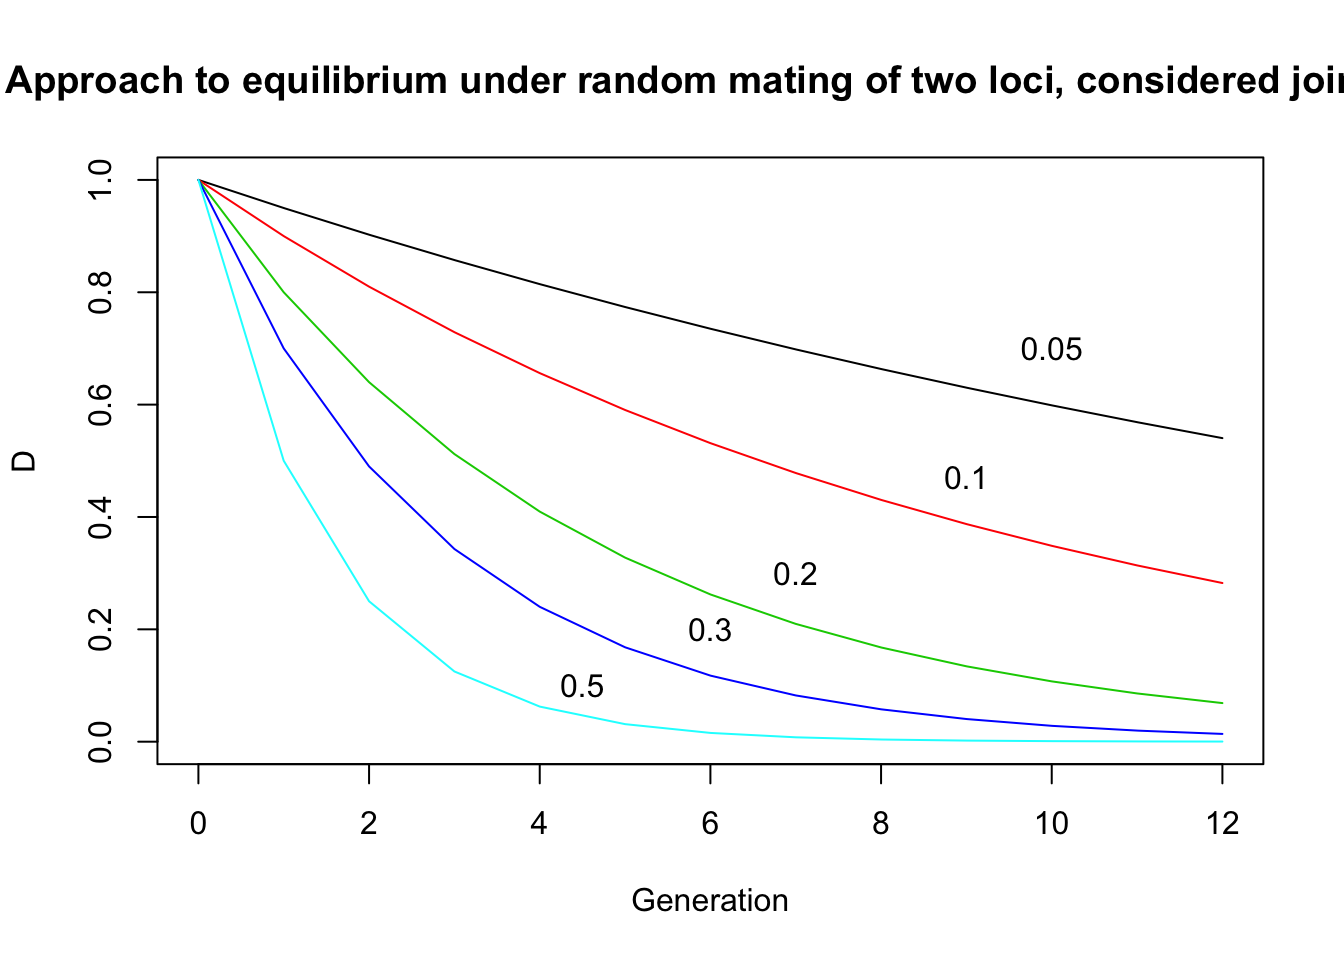
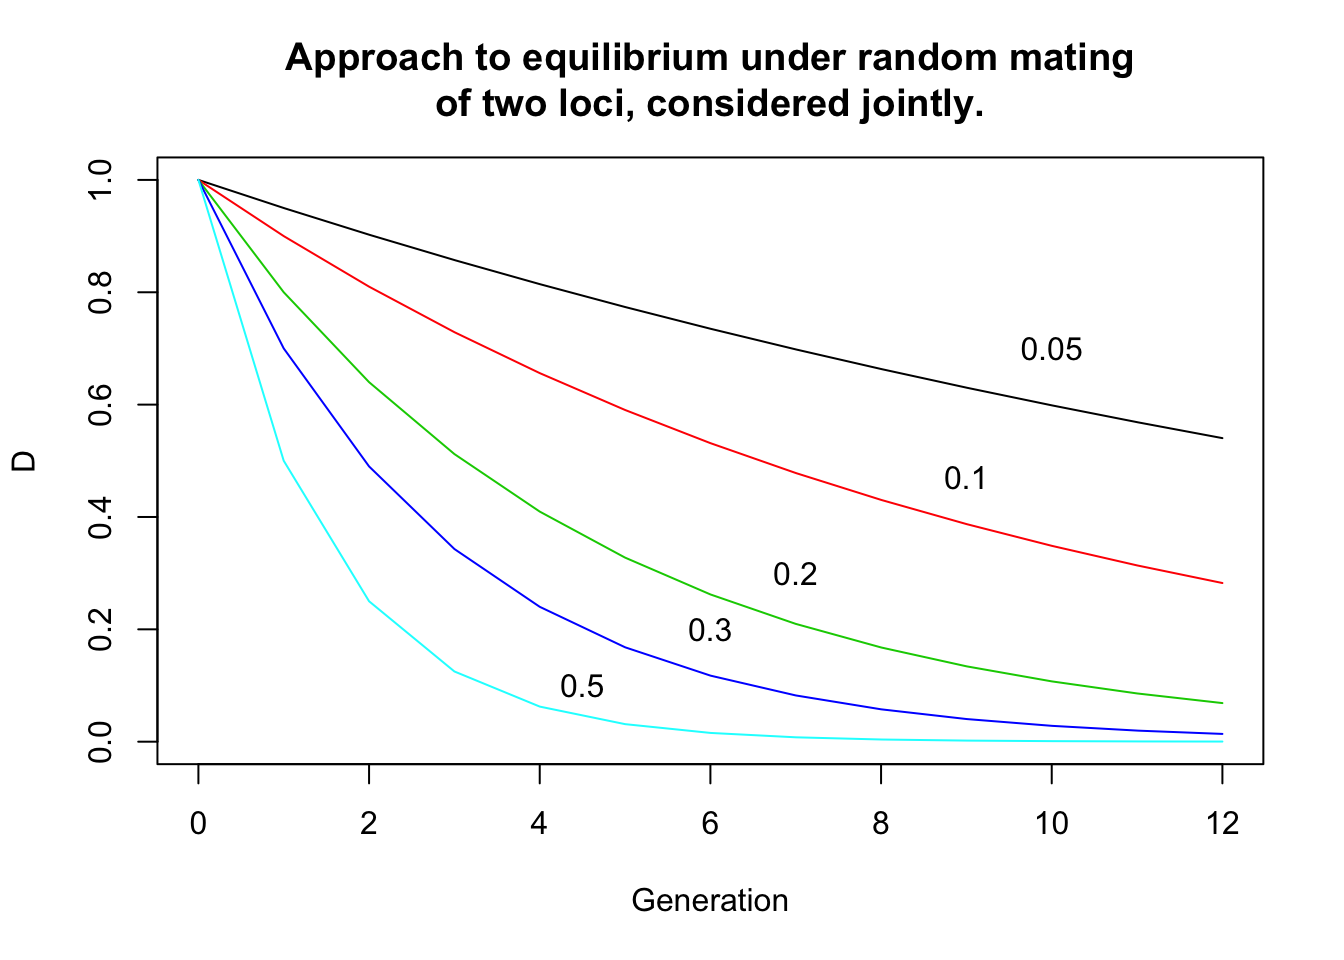
update 08-variance

Changed region(s): [[0.0, 0.0312, 1.0, 0.125]]

diff --git a/variance.html b/variance.html
@@ -336,15 +336,71 @@ Published with <a href="https://github.com/rstudio/bookdown" target="blank">book
 <h2><span class="header-section-number">9.2</span> Genetic components of variance</h2>
 <div id="additive-and-dominance-variance" class="section level3">
 <h3><span class="header-section-number">9.2.1</span> Additive and dominance variance</h3>
+<p>The information needed to obtain expressions for the variance of breeding values and the variance of dominance deviations was given in the last chapter in Table 7.3. (Note: the expected of breeding values and domiance deviations are both 0.)</p>
+<p>The additive variance, which is the vraince of breeding values, is obtained as follows:</p>
+<p><span class="math display">\[V_A = p^2 \times (2q\alpha)^2 + 2pq \times ((q-p)\alpha)^2 + q^2 \times (-2p\alpha)^2 = 2pq[a+d(q-p)]^2\]</span></p>
+<p>Similarly, the variance of domiance deviations is</p>
+<p><span class="math display">\[V_D = p^2 \times (-2q^2d)^2 + 2pq \times (2pqd)^2 + q^2 \times (-2p^2d)^2 = (2pqd)^2\]</span></p>
 </div>
 <div id="total-genetic-variance" class="section level3">
 <h3><span class="header-section-number">9.2.2</span> Total genetic variance</h3>
+<p>So, the genotypic variance is</p>
+<p><span class="math display">\[V_G = V_A + V_D = 2pq[a+d(q-p)]^2 + [2pqd]^2\]</span></p>
+<p>Note: cov(A,D) = 0 due to the least square estimation.</p>
+<div class="sourceCode"><pre class="sourceCode r"><code class="sourceCode r">va =<span class="st"> </span><span class="cf">function</span>(a, d, p){
+  q =<span class="st"> </span><span class="dv">1</span> <span class="op">-</span><span class="st"> </span>p
+  <span class="kw">return</span>(<span class="dv">2</span><span class="op">*</span>p<span class="op">*</span>q<span class="op">*</span>(a<span class="op">+</span>d<span class="op">*</span>(q<span class="op">-</span>p))<span class="op">^</span><span class="dv">2</span>)
+}
+vd =<span class="st"> </span><span class="cf">function</span>(a, d, p){
+  q =<span class="st"> </span><span class="dv">1</span> <span class="op">-</span><span class="st"> </span>p
+  <span class="kw">return</span>((<span class="dv">2</span><span class="op">*</span>p <span class="op">*</span><span class="st"> </span>q <span class="op">*</span>d)<span class="op">^</span><span class="dv">2</span>)
+}
+vg =<span class="st"> </span><span class="cf">function</span>(a, d, p){
+  <span class="kw">return</span>(<span class="kw">va</span>(a,d,p) <span class="op">+</span><span class="st"> </span><span class="kw">vd</span> (a,d,p))
+}
+p =<span class="st"> </span><span class="kw">seq</span>(<span class="dv">0</span>,<span class="dv">1</span>,<span class="fl">0.01</span>); q=<span class="dv">1</span><span class="op">-</span>p
+<span class="kw">layout</span>(<span class="kw">matrix</span>(<span class="dv">1</span><span class="op">:</span><span class="dv">3</span>,<span class="dv">1</span>,<span class="dv">3</span>))
+
+a=<span class="dv">1</span>; d=<span class="dv">0</span>
+<span class="kw">plot</span>(<span class="kw">c</span>(<span class="dv">0</span>,<span class="dv">1</span>),<span class="kw">c</span>(<span class="dv">0</span>,<span class="dv">1</span>),<span class="dt">col =</span> <span class="st">&quot;white&quot;</span>, <span class="dt">main=</span><span class="kw">paste</span>(<span class="st">&quot;a=&quot;</span>,a,<span class="st">&quot;, d=&quot;</span>,d,<span class="dt">sep=</span><span class="st">&quot;&quot;</span>), <span class="dt">xlab=</span><span class="st">&quot;Gene(Allele) frequency, q&quot;</span>, <span class="dt">ylab=</span><span class="st">&quot;genetic components of variance&quot;</span>)
+<span class="kw">lines</span>(q, <span class="kw">vg</span>(a,d,p),<span class="dt">col=</span><span class="st">&quot;red&quot;</span>)
+<span class="kw">lines</span>(q, <span class="kw">vd</span>(a,d,p),<span class="dt">col=</span><span class="st">&quot;green&quot;</span>)
+<span class="kw">lines</span>(q, <span class="kw">va</span>(a,d,p),<span class="dt">col=</span><span class="st">&quot;blue&quot;</span>)
+
+a=<span class="dv">1</span>; d=<span class="dv">1</span>
+<span class="kw">plot</span>(<span class="kw">c</span>(<span class="dv">0</span>,<span class="dv">1</span>),<span class="kw">c</span>(<span class="dv">0</span>,<span class="dv">1</span>),<span class="dt">col =</span> <span class="st">&quot;white&quot;</span>, <span class="dt">main=</span><span class="kw">paste</span>(<span class="st">&quot;a=&quot;</span>,a,<span class="st">&quot;, d=&quot;</span>,d,<span class="dt">sep=</span><span class="st">&quot;&quot;</span>), <span class="dt">xlab=</span><span class="st">&quot;Gene(Allele) frequency, q&quot;</span>, <span class="dt">ylab=</span><span class="st">&quot;genetic components of variance&quot;</span>)
+<span class="kw">lines</span>(q, <span class="kw">vg</span>(a,d,p),<span class="dt">col=</span><span class="st">&quot;red&quot;</span>)
+<span class="kw">lines</span>(q, <span class="kw">vd</span>(a,d,p),<span class="dt">col=</span><span class="st">&quot;green&quot;</span>)
+<span class="kw">lines</span>(q, <span class="kw">va</span>(a,d,p),<span class="dt">col=</span><span class="st">&quot;blue&quot;</span>)
+
+a=<span class="dv">0</span>; d=<span class="dv">1</span>
+<span class="kw">plot</span>(<span class="kw">c</span>(<span class="dv">0</span>,<span class="dv">1</span>),<span class="kw">c</span>(<span class="dv">0</span>,<span class="dv">1</span>),<span class="dt">col =</span> <span class="st">&quot;white&quot;</span>, <span class="dt">main=</span><span class="kw">paste</span>(<span class="st">&quot;a=&quot;</span>,a,<span class="st">&quot;, d=&quot;</span>,d,<span class="dt">sep=</span><span class="st">&quot;&quot;</span>), <span class="dt">xlab=</span><span class="st">&quot;Gene(Allele) frequency, q&quot;</span>, <span class="dt">ylab=</span><span class="st">&quot;genetic components of variance&quot;</span>)
+<span class="kw">lines</span>(q, <span class="kw">vg</span>(a,d,p),<span class="dt">col=</span><span class="st">&quot;red&quot;</span>)
+<span class="kw">lines</span>(q, <span class="kw">vd</span>(a,d,p),<span class="dt">col=</span><span class="st">&quot;green&quot;</span>)
+<span class="kw">lines</span>(q, <span class="kw">va</span>(a,d,p),<span class="dt">col=</span><span class="st">&quot;blue&quot;</span>)
+
+<span class="kw">legend</span>(<span class="fl">0.1</span>,<span class="dv">1</span>,<span class="st">&quot;Genotypic variance&quot;</span>,<span class="dt">lty =</span> <span class="dv">1</span>, <span class="dt">col =</span><span class="st">&quot;red&quot;</span>, <span class="dt">bty=</span><span class="st">&quot;n&quot;</span>)
+<span class="kw">legend</span>(<span class="fl">0.1</span>,<span class="fl">0.95</span>,<span class="st">&quot;Additive variance&quot;</span>,<span class="dt">lty =</span> <span class="dv">1</span>, <span class="dt">col =</span><span class="st">&quot;blue&quot;</span>, <span class="dt">bty=</span><span class="st">&quot;n&quot;</span>)
+<span class="kw">legend</span>(<span class="fl">0.1</span>,<span class="fl">0.9</span>,<span class="st">&quot;Dominance variance&quot;</span>,<span class="dt">lty =</span> <span class="dv">1</span>, <span class="dt">col =</span><span class="st">&quot;green&quot;</span>, <span class="dt">bty=</span><span class="st">&quot;n&quot;</span>)</code></pre></div>
+<p><img src="_main_files/figure-html/unnamed-chunk-5-1.png" width="672" /></p>
+<p>The graphs show the amounts of genotypic, additive, domiance variance arising from a single locus with two alleles, plotted against the gene(allele) frequency in threes cases: 1) no dominance (d=0); 2) complete dominance (d=a); 3) “pure” overdominance.</p>
+<p>The general conclusion to be drawn from these graphs is that genes contribute much more variance when at intermediate frequencies than when at high or low frequencies: recessives at low frequency, in particular, contribute very little variance.</p>
 </div>
 <div id="interaction-variance" class="section level3">
 <h3><span class="header-section-number">9.2.3</span> Interaction variance</h3>
+<p>If the genotypes at different loci show epistatic interaction, then the interactions give rise to a component of variance <span class="math inline">\(V_I\)</span>, which is the variance of the interaction deviations.</p>
+<p>Theoretical description of the properties of interaction variances rests on its further subdivision into components.</p>
+<p>It is first subdivided according to the number of loci involved: two-factor interaction arises from the interaction of two loci, three-factor from three loci, etc. Interactions involving larger numbers of loci contribute so little variance that they can be ignored.</p>
+<p>The nxt subdivision of the interaction variance is according to whether the interaction involves breeding values or domiance deviations. There are thus three sorts of two-factor interactions. Interaction between the two breeding values gives rise to additive <span class="math inline">\(\times\)</span> additive variance, <span class="math inline">\(V_{AA}\)</span>; interaction between the breeding value of one locus and the domiance deviation of the other gives rise to additive <span class="math inline">\(\times\)</span> domiance variance, <span class="math inline">\(V_{AD}\)</span>; and interaction between the two domiance deviations give rise to domiance <span class="math inline">\(\times\)</span> domiance variance, <span class="math inline">\(V_{DD}\)</span>.</p>
+<p>So,</p>
+<p><span class="math display">\[V_I = V_{AA} + V_{AD} + V_{DD} + etc.\]</span></p>
+<p>It is not easy, however, to estimate the amout of variance that it generates, and little is known about its relative importance as a source of variation. Th e experimental evidence is reviewd by Barker (1979). For further details of epistatic interaction, see Cockerham (1954, 1963), Kempthorne (1957), Crow and Kimura (1970).</p>
 </div>
 <div id="variance-due-to-disequilibrium" class="section level3">
 <h3><span class="header-section-number">9.2.4</span> Variance due to disequilibrium</h3>
+<p>The disequilibrium when the genotype freuqncies at two or more loci consideered jointly introduces an additional source of genetic variance. For simplicity, consider just tow loci which do not interact in the manner described above. Let G’ and G’‘be genotypic values of individuals with respect to each locus separately, and let G be the genotypic value with respect to both jointly, i.e., G = G’ + G’’. The total genotypic variance caused by the two loci together is then</p>
+<p><span class="math display">\[V_G = V_{G&#39;} + V_{G&#39;&#39;} + 2 cov(G&#39;,G&#39;&#39;)\]</span></p>
+<p>There are two forms</p>
 </div>
 </div>
 <div id="correlation-and-interaction-between-genotype-and-environment" class="section level2">

diff --git a/genetic-constitution-of-a-population.html b/genetic-constitution-of-a-population.html
@@ -747,13 +747,13 @@ data.melt =<span class="st"> </span><span class="kw">melt</span>(data, <span cla
 <p>Note: The statistic analysis “<span class="math inline">\(\chi^2_{[1]}=0.93; P&gt;0.5\)</span>” seems to me is wrong. Because <code>1-pchisq(0.93,1)=0.3348629</code>, it’s also not significance, but less than 0.5.</p>
 <p>The maximum of the absolute value of D is 0.25 when <span class="math inline">\(p_A = q_A = p_B = q_B = 0.5\)</span>.</p>
 <p><span class="math inline">\(D_{max}\)</span> is the largest numerical value D coud be, given the observed gene fequncies.</p>
-<p>If two loci are linked on the same chromosome, the gamete type <span class="math inline">\(A_1B_1\)</span> in the progeny generation can be obtainded from <span class="math inline">\(A_1B_1/A_xB_x\)</span> without recombination or <span class="math inline">\(A_1B_x/A_xB_1\)</span> with recombination. The frequency of the former situation is r(1-c), r being the frequency of <span class="math inline">\(A_1B_1\)</span> in the parental gamets and c the recombination frequncy. The frequency of later situation is <span class="math inline">\(p_Ap_Bc\)</span>. therefore the frequency of <span class="math inline">\(A_1B_1\)</span> in the progeny gamets is</p>
+<p>If two loci are linked on the same chromosome, the gamete type <span class="math inline">\(A_1B_1\)</span> in the progeny generation can be obtainded from <span class="math inline">\(A_1B_1/A_xB_x\)</span> without recombination or <span class="math inline">\(A_1B_x/A_xB_1\)</span> with recombination. The frequency of the former situation is r(1-c), r being the frequency of <span class="math inline">\(A_1B_1\)</span> in the parental gamets and c the recombination frequncy. The frequency of later situation is <span class="math inline">\(p_Ap_Bc\)</span>. Therefore the frequency of <span class="math inline">\(A_1B_1\)</span> in the progeny gamets is</p>
 <p><span class="math display">\[r&#39; = r(1-c) + p_Ap_Bc\]</span></p>
 <p>and the disequilibrium in the progeny generation is</p>
 <p><span class="math display">\[D&#39; = r&#39; - p_Ap_B = D(1-c)\]</span></p>
 <p>In a more general way, after any number t of generations, the disequilibrium is given by</p>
 <p><span class="math display">\[D_t = D_0 (1-c)^t\]</span></p>
-<div class="sourceCode"><pre class="sourceCode r"><code class="sourceCode r"><span class="kw">plot</span>(<span class="kw">c</span>(<span class="dv">0</span>,<span class="dv">12</span>),<span class="kw">c</span>(<span class="dv">0</span>,<span class="dv">1</span>),<span class="dt">col=</span><span class="st">&quot;white&quot;</span>,<span class="dt">main=</span><span class="st">&quot;Approach to equilibrium under random mating of two loci, considered jointly.&quot;</span>,<span class="dt">xlab=</span><span class="st">&quot;Generation&quot;</span>, <span class="dt">ylab=</span><span class="st">&quot;D&quot;</span>)
+<div class="sourceCode"><pre class="sourceCode r"><code class="sourceCode r"><span class="kw">plot</span>(<span class="kw">c</span>(<span class="dv">0</span>,<span class="dv">12</span>),<span class="kw">c</span>(<span class="dv">0</span>,<span class="dv">1</span>),<span class="dt">col=</span><span class="st">&quot;white&quot;</span>,<span class="dt">main=</span><span class="st">&quot;Approach to equilibrium under random mating</span><span class="ch">\n</span><span class="st">of two loci, considered jointly.&quot;</span>,<span class="dt">xlab=</span><span class="st">&quot;Generation&quot;</span>, <span class="dt">ylab=</span><span class="st">&quot;D&quot;</span>)
 t =<span class="st"> </span><span class="dv">0</span><span class="op">:</span><span class="dv">12</span>;d0 =<span class="st"> </span><span class="dv">1</span>
 <span class="kw">lines</span>(t,d0<span class="op">*</span>(<span class="dv">1</span><span class="op">-</span><span class="fl">0.05</span>)<span class="op">^</span>t, <span class="dt">col=</span><span class="dv">1</span>);<span class="kw">text</span>(<span class="dv">10</span>,<span class="fl">0.7</span>,<span class="st">&quot;0.05&quot;</span>)
 <span class="kw">lines</span>(t,d0<span class="op">*</span>(<span class="dv">1</span><span class="op">-</span><span class="fl">0.1</span>)<span class="op">^</span>t, <span class="dt">col=</span><span class="dv">2</span>);<span class="kw">text</span>(<span class="dv">9</span>,<span class="fl">0.47</span>,<span class="st">&quot;0.1&quot;</span>)
